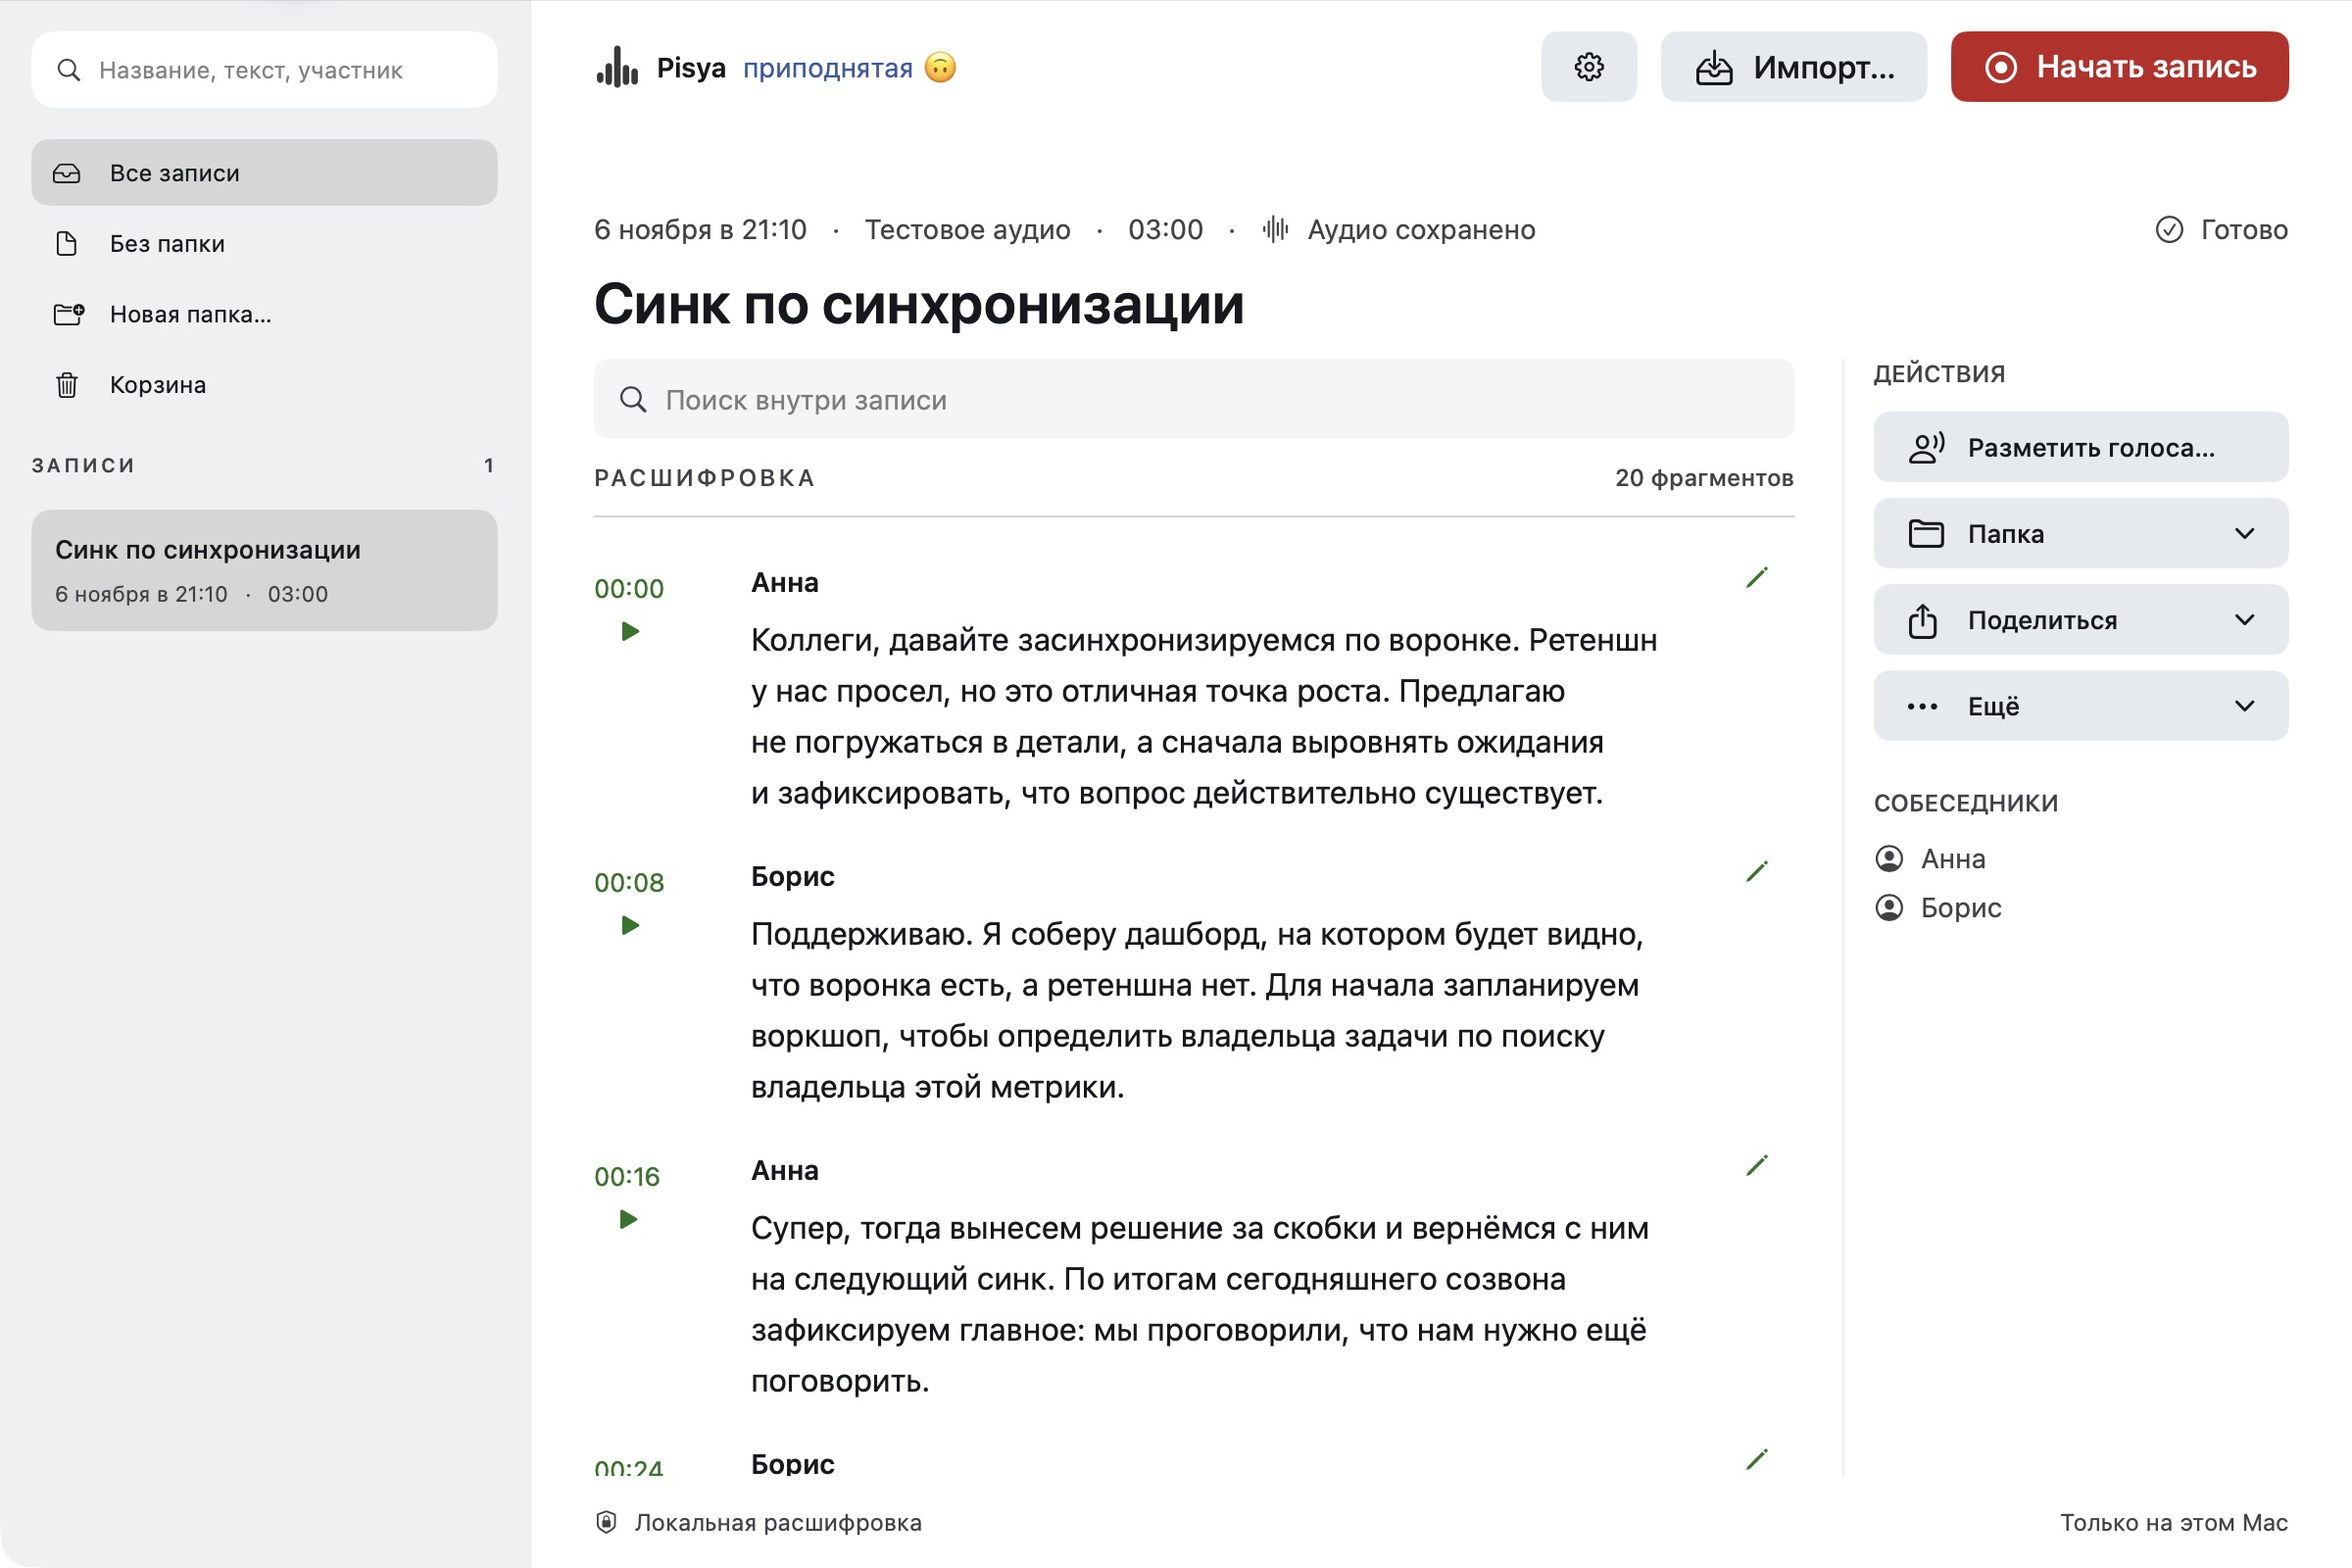
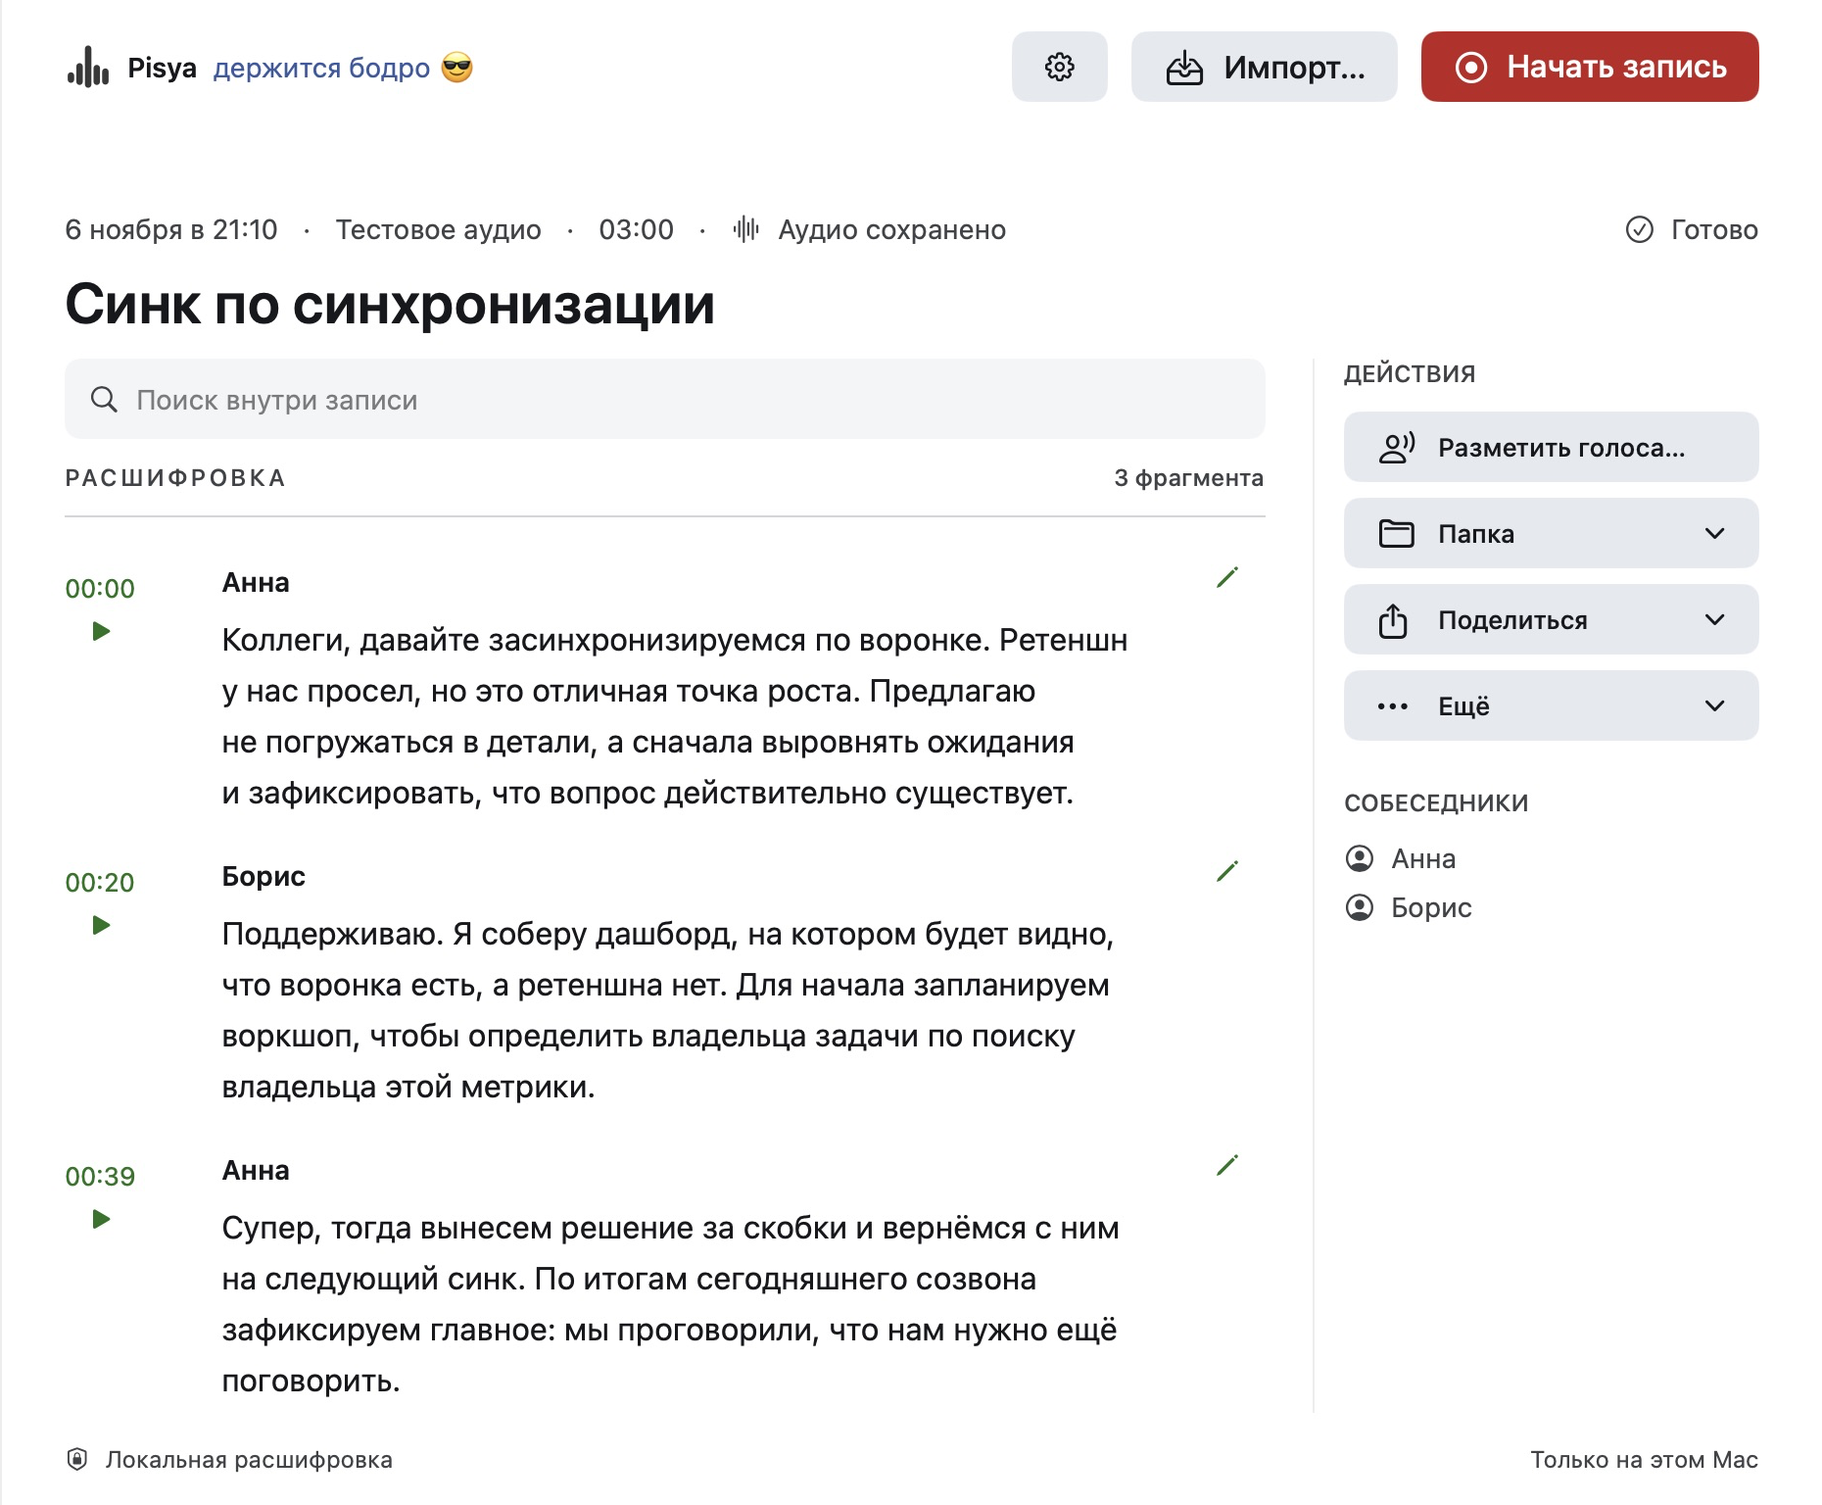
Improve readability of README transcript screenshots

diff --git a/README.md b/README.md
@@ -47,7 +47,11 @@ xattr -dr com.apple.quarantine "/Applications/Pisya.app"
 - **Markdown.** Расшифровку можно сохранить вручную или настроить автоматический экспорт в папку, например в хранилище Obsidian. При автоэкспорте файл с текстом, участниками и временными метками обновляется после правок.
 - **Доступ через MCP.** Подключённый MCP-клиент, например ИИ-ассистент, может искать реплики вместе с соседними фрагментами, находить встречи по датам, участникам и папкам, читать расшифровки и узнавать состояние обработки. Ссылки на источники открывают нужный фрагмент в Pisya. MCP предоставляет доступ только для чтения, работает без сетевого порта и не передаёт аудиофайлы. Доступ включён по умолчанию и отключается в настройках.
 
-![Библиотека и расшифровка вымышленной встречи «Синк по синхронизации»](docs/images/meeting.png)
+![Расшифровка вымышленной встречи «Синк по синхронизации»](docs/images/meeting.png)
+
+Реплики крупнее:
+
+![Крупный план трёх реплик с временными метками](docs/images/transcript.png)
 
 ## Приватность
 
